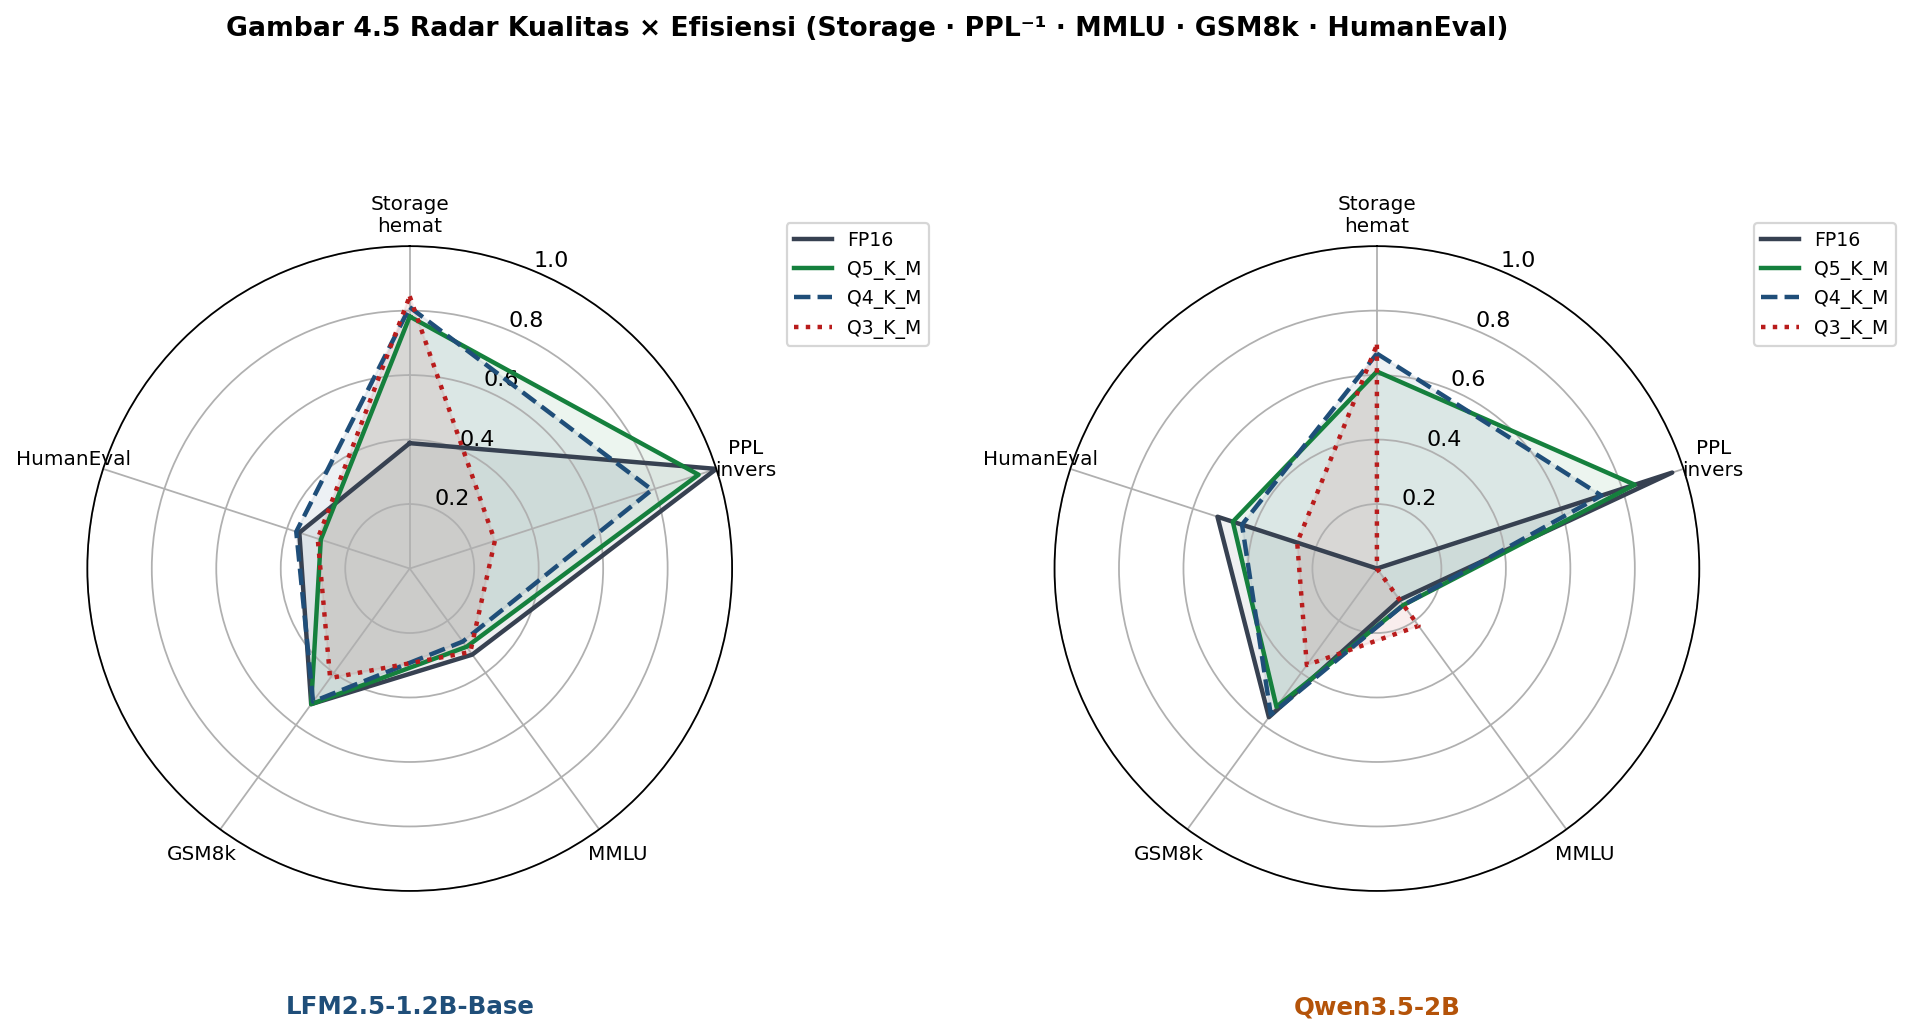
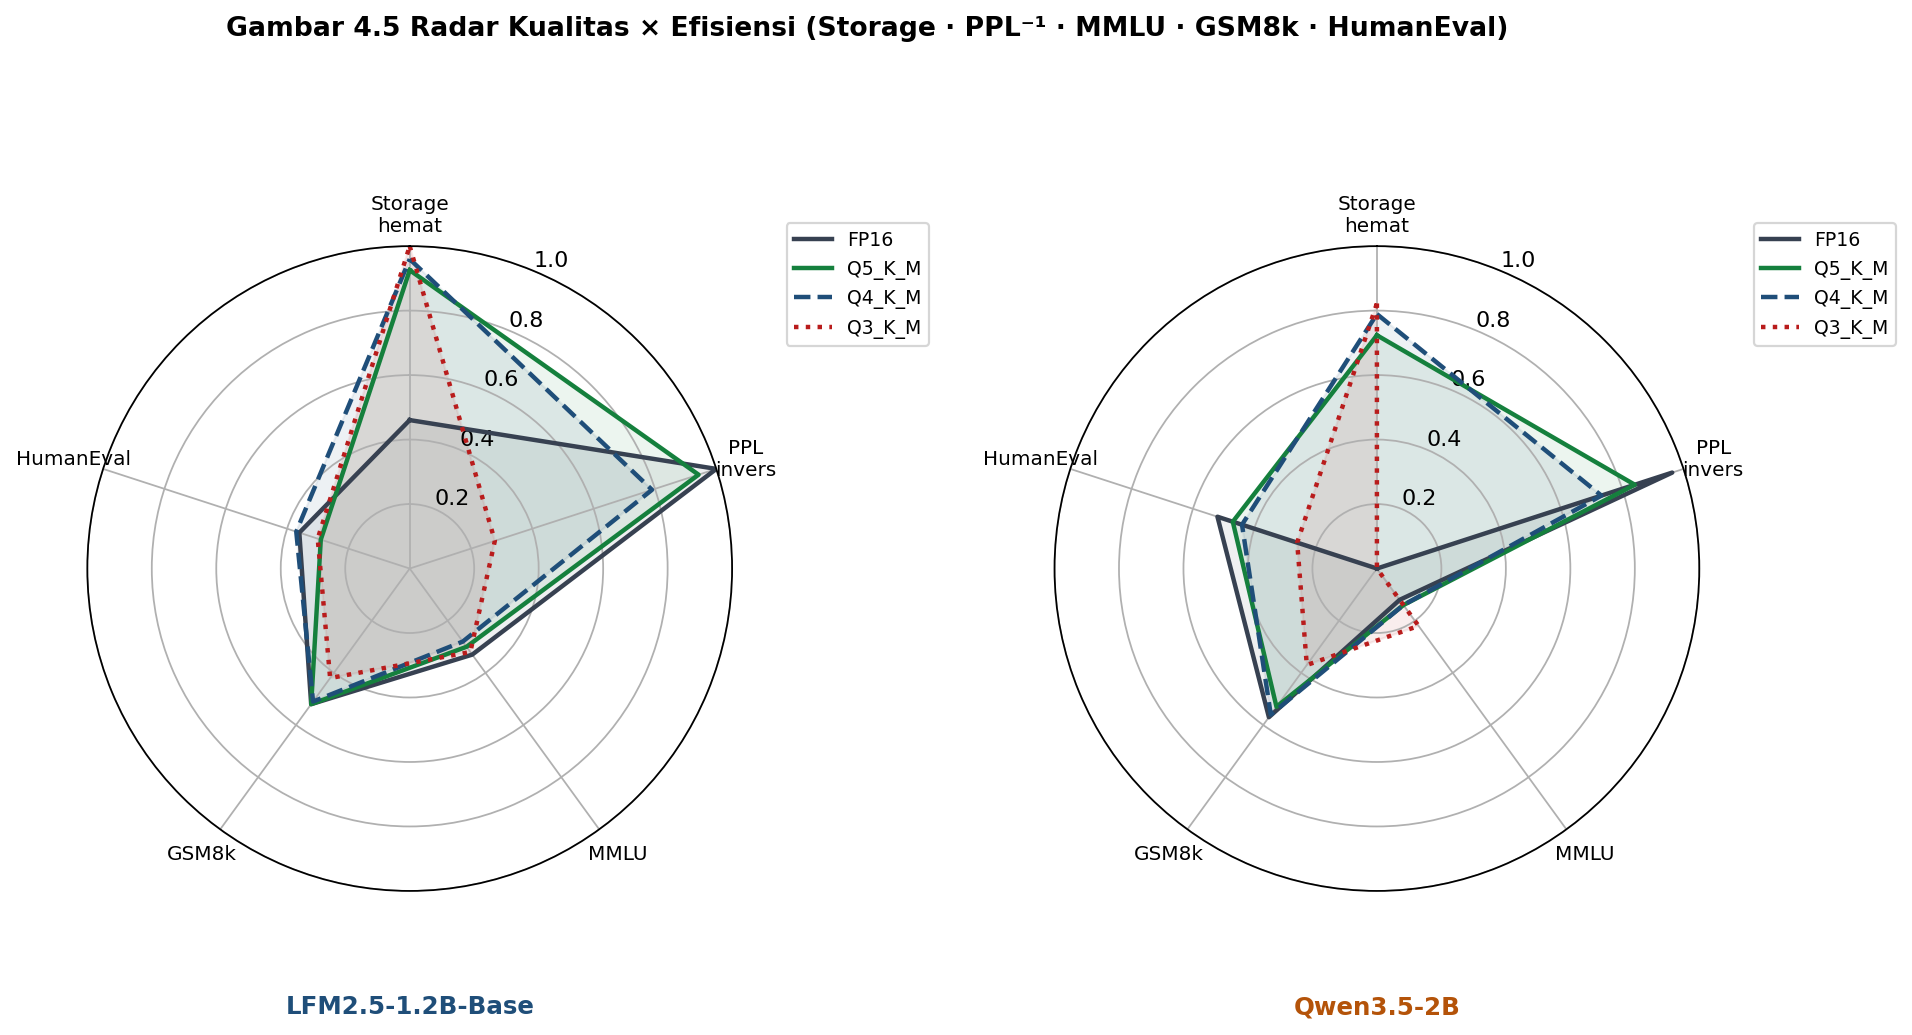
Pemangkasan BAB 2-4 + tambah workstation RTX 3060 + perbaiki normalisasi radar 4.5
User feedback: 'periksa lagi bab 2-4 apakah ada yang tidak penting? kalau tidak penting di hapus saja karena memberatkan saya saat sidang skripsi karena pembahasannya tidak fokus.'

BAB 2 trims (fokuskan pembahasan):
- Hapus 2.1.6 'Spesifikasi MediaTek Helio G99' karena duplikat dengan 2.3.1 Pova 5 yang sudah memuat spek lengkap.
- Hapus 2.1.9 'Reproducibility dan Threats to Validity' karena pembahasan kanonisnya ada di 3.4.5 (BAB 3).
- Hapus entri Sevim et al. (2024) dari Tabel 2.1 dan paragraf review karena topik 'LLM bantu deployment jaringan urban' kurang relevan dengan fokus on-device SLM mobile. Sevim tetap dipertahankan di DAFTAR_PUSTAKA karena masih disitasi pada BAB 1.
- Renumber 2.1.7 -> 2.1.6 (Benchmark) dan 2.1.8 -> 2.1.7 (GQM + 3D Framework).
- Update kalimat pembuka 2.2: 'dua belas penelitian' -> 'sebelas penelitian'.
- Update PENJELASAN_BAB2.md dan BAB 2 PENJELASAN_GAMBAR.md untuk menyesuaikan renumbering.
- Update BAB 3 baris 108 referensi 'Bagian 2.1.8' -> 'Bagian 2.1.7'.

BAB 4 trim:
- Hapus kalimat metadata typo PPL ('132,145' -> '13,2145') di akhir 4.2 Pembahasan karena merupakan catatan internal yang tidak perlu muncul di laporan akhir.

BAB 3 reproducibility:
- Tambah baris ke Tabel 3.1 Hardware: 'Workstation evaluasi: laptop x86_64 + GPU NVIDIA RTX 3060' yang dipakai untuk konversi GGUF, kuantisasi, dan eksekusi llama-perplexity + lm-evaluation-harness pada PPL/MMLU/GSM8k/HumanEval. Pengujian on-device tetap di Pova 5 (subbab 4.4).
[…]

diff --git a/scripts/make_figures.py b/scripts/make_figures.py
@@ -728,7 +728,8 @@ def fig_4_5_radar_quality():
     # normalisasi ke 0..1 berdasarkan agregat semua kondisi
     all_sizes = [FILE_SIZE_MB[m][v] for m in MODELS for v in VARIANTS]
     all_ppl   = [PPL[m][v] for m in MODELS for v in VARIANTS]
-    max_size = max(all_sizes); min_ppl = min(all_ppl); max_ppl = max(all_ppl)
+    min_size = min(all_sizes); max_size = max(all_sizes)
+    min_ppl = min(all_ppl); max_ppl = max(all_ppl)
 
     fig, axes = plt.subplots(1, 2, figsize=(13, 7.2), subplot_kw=dict(polar=True))
     variant_style = {"FP16":   ("-",  PALETTE["gray"]),
@@ -742,8 +743,10 @@ def fig_4_5_radar_quality():
         ax.set_xticklabels(cats, fontsize=9)
         ax.set_ylim(0, 1)
         for v in VARIANTS:
-            storage_score = 1.0 - FILE_SIZE_MB[m][v] / max_size              # kecil = bagus
-            ppl_score = 1.0 - (PPL[m][v] - min_ppl) / (max_ppl - min_ppl)    # kecil = bagus
+            # Min-max normalisasi konsisten untuk seluruh sumbu radar:
+            # nilai terbaik teramati = 1.0, nilai terburuk teramati = 0.0.
+            storage_score = 1.0 - (FILE_SIZE_MB[m][v] - min_size) / (max_size - min_size)  # kecil = bagus
+            ppl_score = 1.0 - (PPL[m][v] - min_ppl) / (max_ppl - min_ppl)                   # kecil = bagus
             mmlu = ACC[m][v]["MMLU"] / 100
             gsm  = ACC[m][v]["GSM8k"] / 100
             he   = ACC[m][v]["HumanEval"] / 100

diff --git a/BAB 2/PENJELASAN_BAB2.md b/BAB 2/PENJELASAN_BAB2.md
@@ -19,10 +19,8 @@ BAB II adalah **fondasi konseptual** penelitian. Pembaca harus mendapatkan tiga 
 3. **2.1.3 Post-Training Quantization (PTQ)** — definisi, GPTQ, AWQ, QLoRA.
 4. **2.1.4 Format GGUF dan k-quants** — fokus utama metode kompresi yang dipakai. Disertai Gambar 2.2.
 5. **2.1.5 Edge Computing dan Edge Intelligence** — paradigma deployment. Disertai Gambar 2.3.
-6. **2.1.6 Spesifikasi MediaTek Helio G99** — hardware target.
-7. **2.1.7 Benchmark MMLU/GSM8k/HumanEval/Perplexity** — metrik kualitas yang dipakai.
-8. **2.1.8 GQM dan Three-Dimensional Evaluation Framework** — kerangka metodologi internasional. Disertai Gambar 2.4.
-9. **2.1.9 Reproducibility dan Threats to Validity** — standar pelaporan modern.
+6. **2.1.6 Benchmark MMLU/GSM8k/HumanEval/Perplexity** — metrik kualitas yang dipakai.
+7. **2.1.7 GQM dan Three-Dimensional Evaluation Framework** — kerangka metodologi internasional. Disertai Gambar 2.4.
 
 **Catatan:** Susunan ini mengikuti pola **funnel** (corong)—dari konsep paling umum hingga ke metrik dan kerangka evaluasi paling spesifik—agar pembaca terbawa secara natural menuju BAB III.
 
@@ -33,7 +31,7 @@ BAB II adalah **fondasi konseptual** penelitian. Pembaca harus mendapatkan tiga 
 - minimal **5 kutipan** (panduan BSI).
 - format sitasi **APA** dengan manajemen Mendeley.
 
-Skripsi ini memakai **12 referensi** yang memenuhi syarat (terdapat di folder `jurnal refrensi/`).
+Skripsi ini memakai **11 referensi** yang memenuhi syarat (terdapat di folder `jurnal refrensi/`).
 
 **Format sub-bab yang dipakai:**
 - Tabel ringkasan (No, Penulis, Tahun, Kontribusi).
@@ -62,7 +60,7 @@ Skripsi ini memakai **12 referensi** yang memenuhi syarat (terdapat di folder `j
 | 2.1 Arsitektur Transformer Decoder | gambar/2.1_arsitektur_transformer.png | sub-bab 2.1.2 |
 | 2.2 Skema PTQ GGUF k-quants | gambar/2.2_skema_PTQ_GGUF_kquants.png | sub-bab 2.1.4 |
 | 2.3 Hierarki Edge Intelligence | gambar/2.3_arsitektur_edge_intelligence.png | sub-bab 2.1.5 |
-| 2.4 Taksonomi Teknik Kuantisasi | gambar/2.4_taxonomy_quantization.png | sub-bab 2.1.8 |
+| 2.4 Taksonomi Teknik Kuantisasi | gambar/2.4_taxonomy_quantization.png | sub-bab 2.1.7 |
 
 ## Daftar tabel BAB II
 | Tabel | Judul | Letak |

diff --git a/BAB 2/gambar/PENJELASAN_GAMBAR.md b/BAB 2/gambar/PENJELASAN_GAMBAR.md
@@ -75,6 +75,6 @@ Catatan ini menjelaskan tujuan, isi, dan konteks pemunculan tiap gambar pada BAB
 - Sub-cabang PTQ: Weight-only GPTQ (Frantar 2023), Activation-aware AWQ (Lin 2024), Mixed-precision GGUF k-quants (llama.cpp), NormalFloat 4-bit QLoRA (Dettmers 2023).
 - Kotak merah di bawah: Fokus penelitian — GGUF k-quants Q3_K_M / Q4_K_M / Q5_K_M pada CPU ARM (Helio G99).
 
-**Kapan dirujuk.** Sub-bab 2.1.8 GQM dan Three-Dimensional Evaluation Framework (sebagai pemetaan taksonomi yang akan dievaluasi dengan kerangka 3D).
+**Kapan dirujuk.** Sub-bab 2.1.7 GQM dan Three-Dimensional Evaluation Framework (sebagai pemetaan taksonomi yang akan dievaluasi dengan kerangka 3D).
 
 **Sumber konsep.** Frantar et al. (2023), Dettmers et al. (2023), Lin et al. (2024), dokumentasi llama.cpp.
